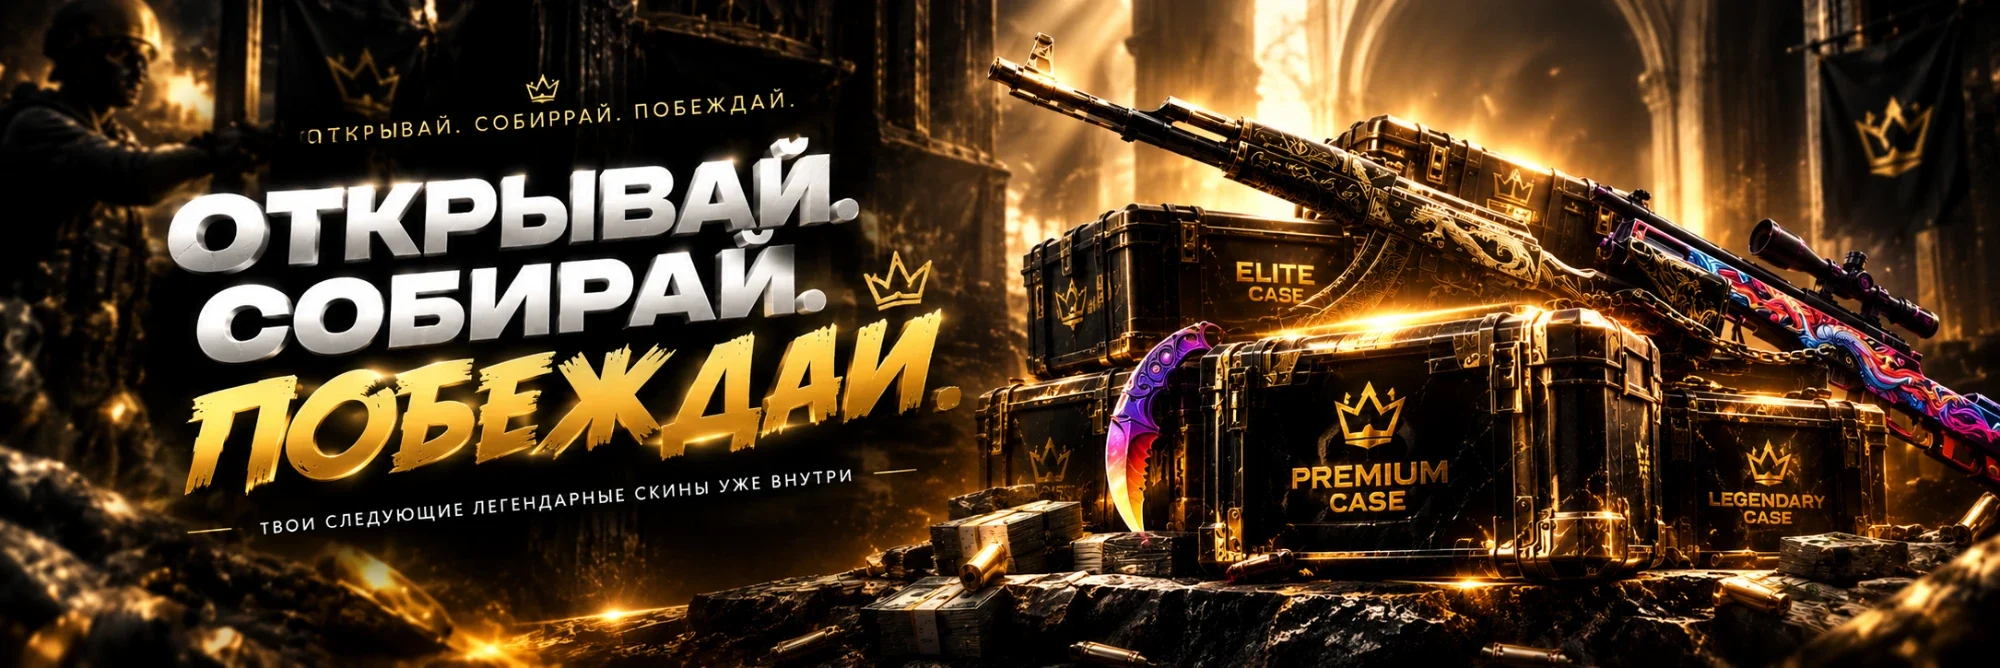
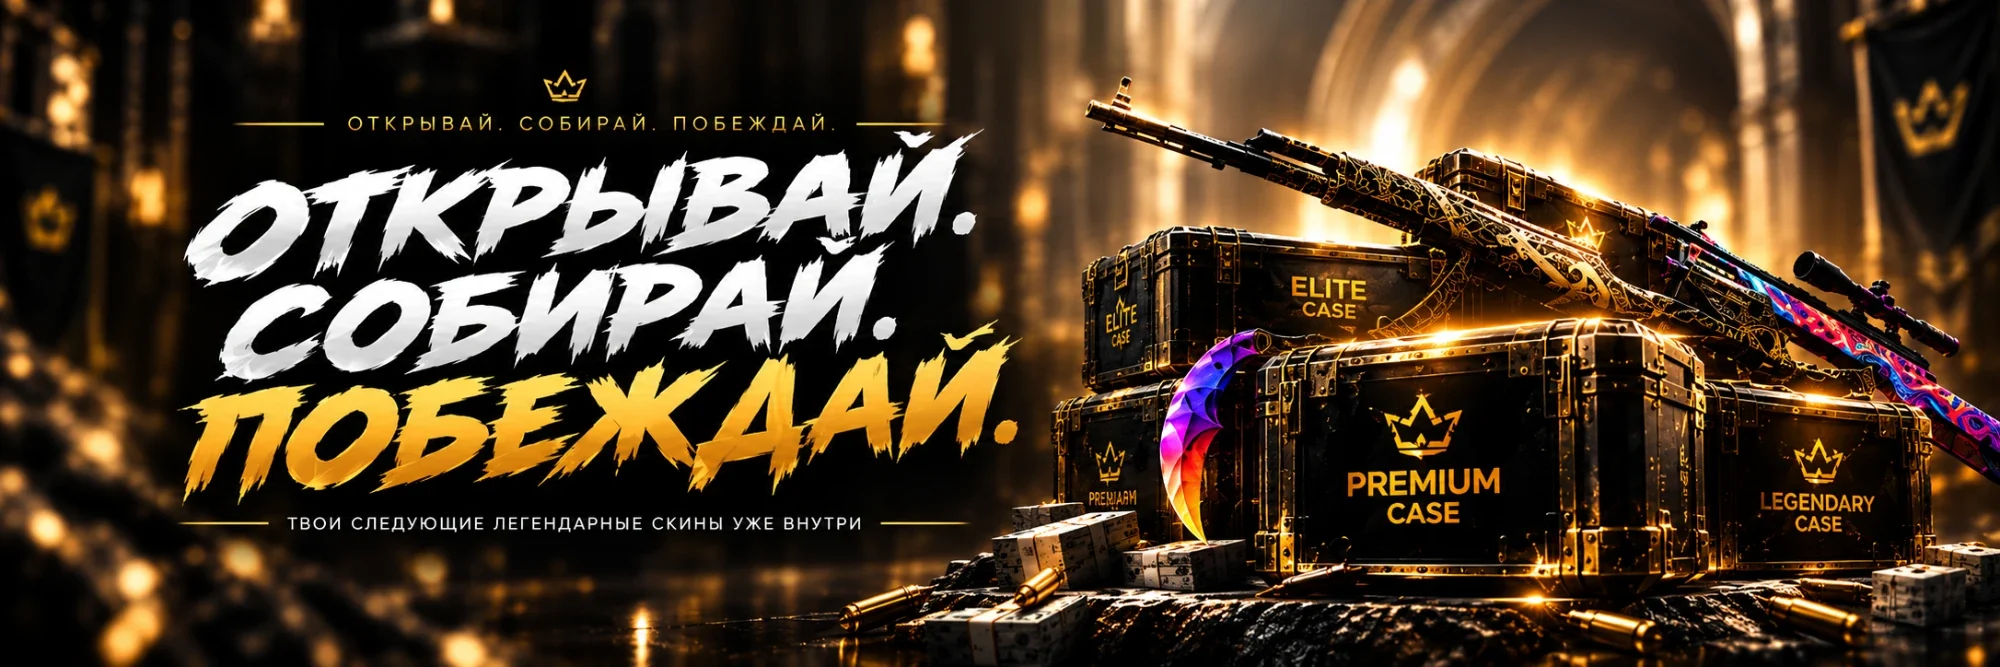
Новый баннер во всю ширину экрана

diff --git a/css/style.css b/css/style.css
@@ -1444,3 +1444,18 @@ p{margin:0}
   font:800 17px var(--ff-h);-webkit-text-fill-color:initial;color:#f6e6b8;background-clip:padding-box;transition:background .25s,border-color .25s}
 .case-card:hover .cc-price{background:rgba(243,193,79,.16);border-color:rgba(243,193,79,.5)}
 @media (max-width:720px){.cc-price{height:32px;padding:0 14px;font-size:15px}}
+/* баннер во всю ширину экрана, мягкое затухание снизу в фон страницы */
+.hero3{padding-top:0}
+.h3-frame{max-width:none;padding:0}
+.h3-img{border-radius:0;box-shadow:none;width:100%;
+  -webkit-mask-image:linear-gradient(to bottom,#000 82%,transparent);mask-image:linear-gradient(to bottom,#000 82%,transparent)}
+.h3-fx{inset:0;border-radius:0}
+.h3-btns{left:9.5%;bottom:9%}
+@media (max-width:720px){.h3-frame{padding:0}.h3-fx{inset:0}.h3-btns{padding:0 16px}}
+/* баннер во всю ширину экрана, снизу мягко уходит в фон страницы */
+.hero3{padding-top:0}
+.h3-frame{max-width:none;padding:0}
+.h3-img{border-radius:0;box-shadow:none;-webkit-mask-image:linear-gradient(to bottom,#000 85%,transparent);mask-image:linear-gradient(to bottom,#000 85%,transparent)}
+.h3-fx{inset:0;border-radius:0}
+.h3-btns{left:9.2%;bottom:8%}
+@media (max-width:720px){.h3-frame{padding:0}.h3-fx{inset:0}.h3-btns{padding:0 16px}}
